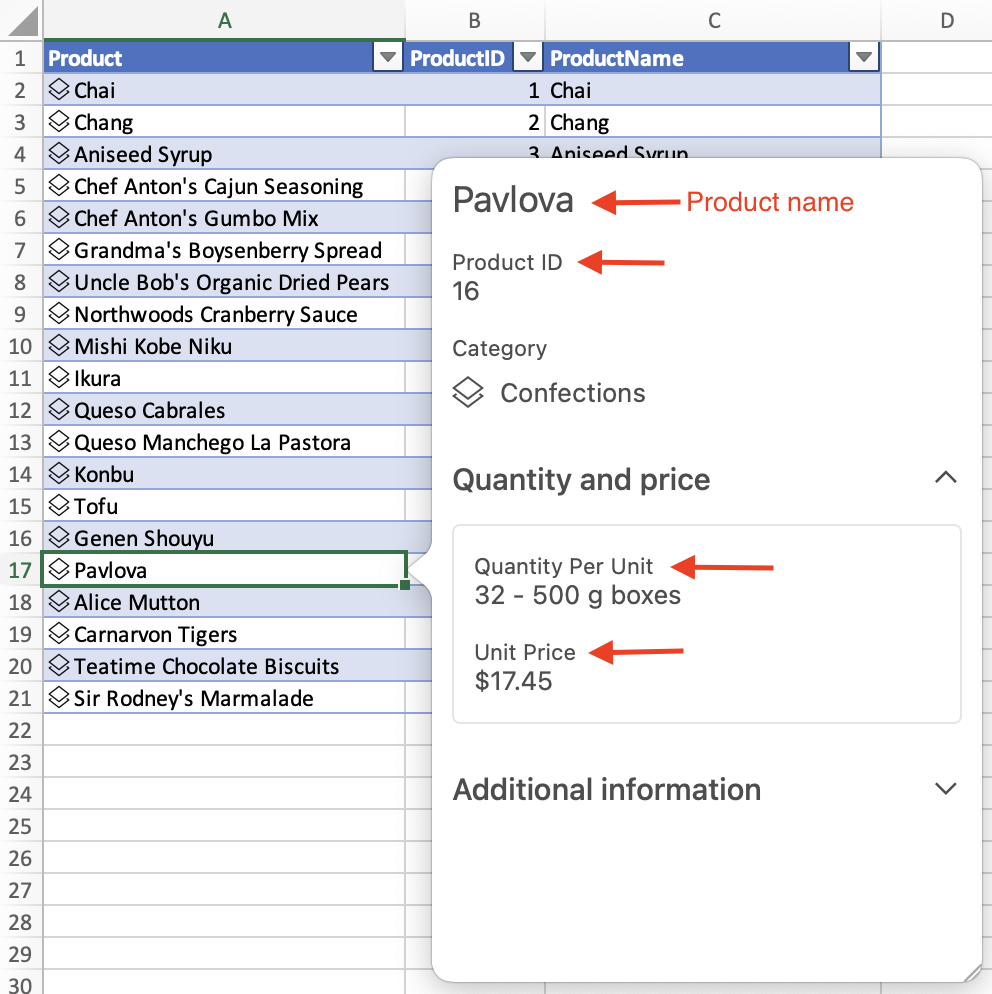
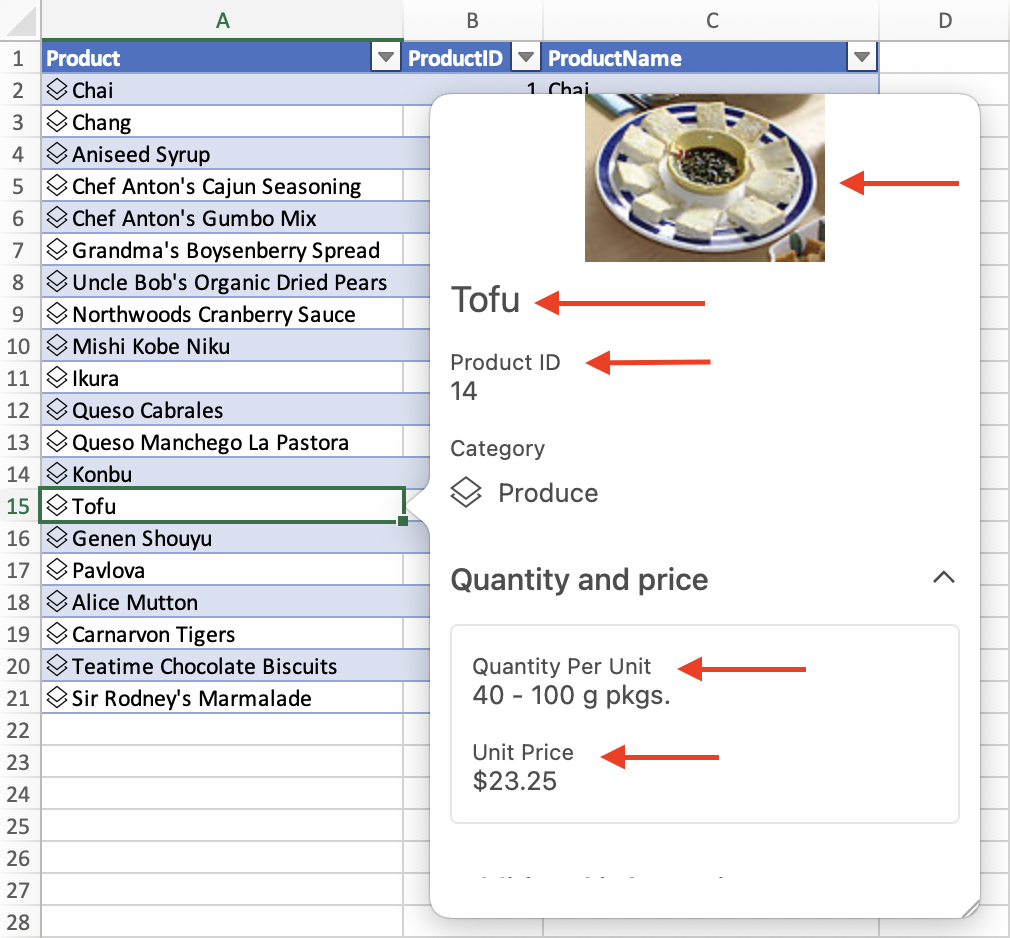
[Excel] (Data types) Add main image info to card article

diff --git a/docs/excel/excel-data-types-entity-card.md b/docs/excel/excel-data-types-entity-card.md
@@ -1,7 +1,7 @@
 ---
 title: Excel JavaScript API data types entity value card
 description: Learn how to use entity value cards with data types in your Excel add-in.
-ms.date: 05/19/2022
+ms.date: 07/14/2022
 ms.topic: conceptual
 ms.prod: excel
 ms.localizationpriority: medium
@@ -43,6 +43,10 @@ const entity: Excel.EntityCellValue = {
         "Product Name": {
             type: Excel.CellValueType.string,
             basicValue: productName || ""
+        },
+        "Image": {
+            type: Excel.CellValueType.webImage,
+            address: product.productImage || ""
         },
         "Quantity Per Unit": {
             type: Excel.CellValueType.string,
@@ -95,6 +99,9 @@ const entity: Excel.EntityCellValue = {
         card: {
             title: { 
                 property: "Product Name" 
+            },
+            mainImage: { 
+                property: "Image" 
             },
             sections: [
                 {
